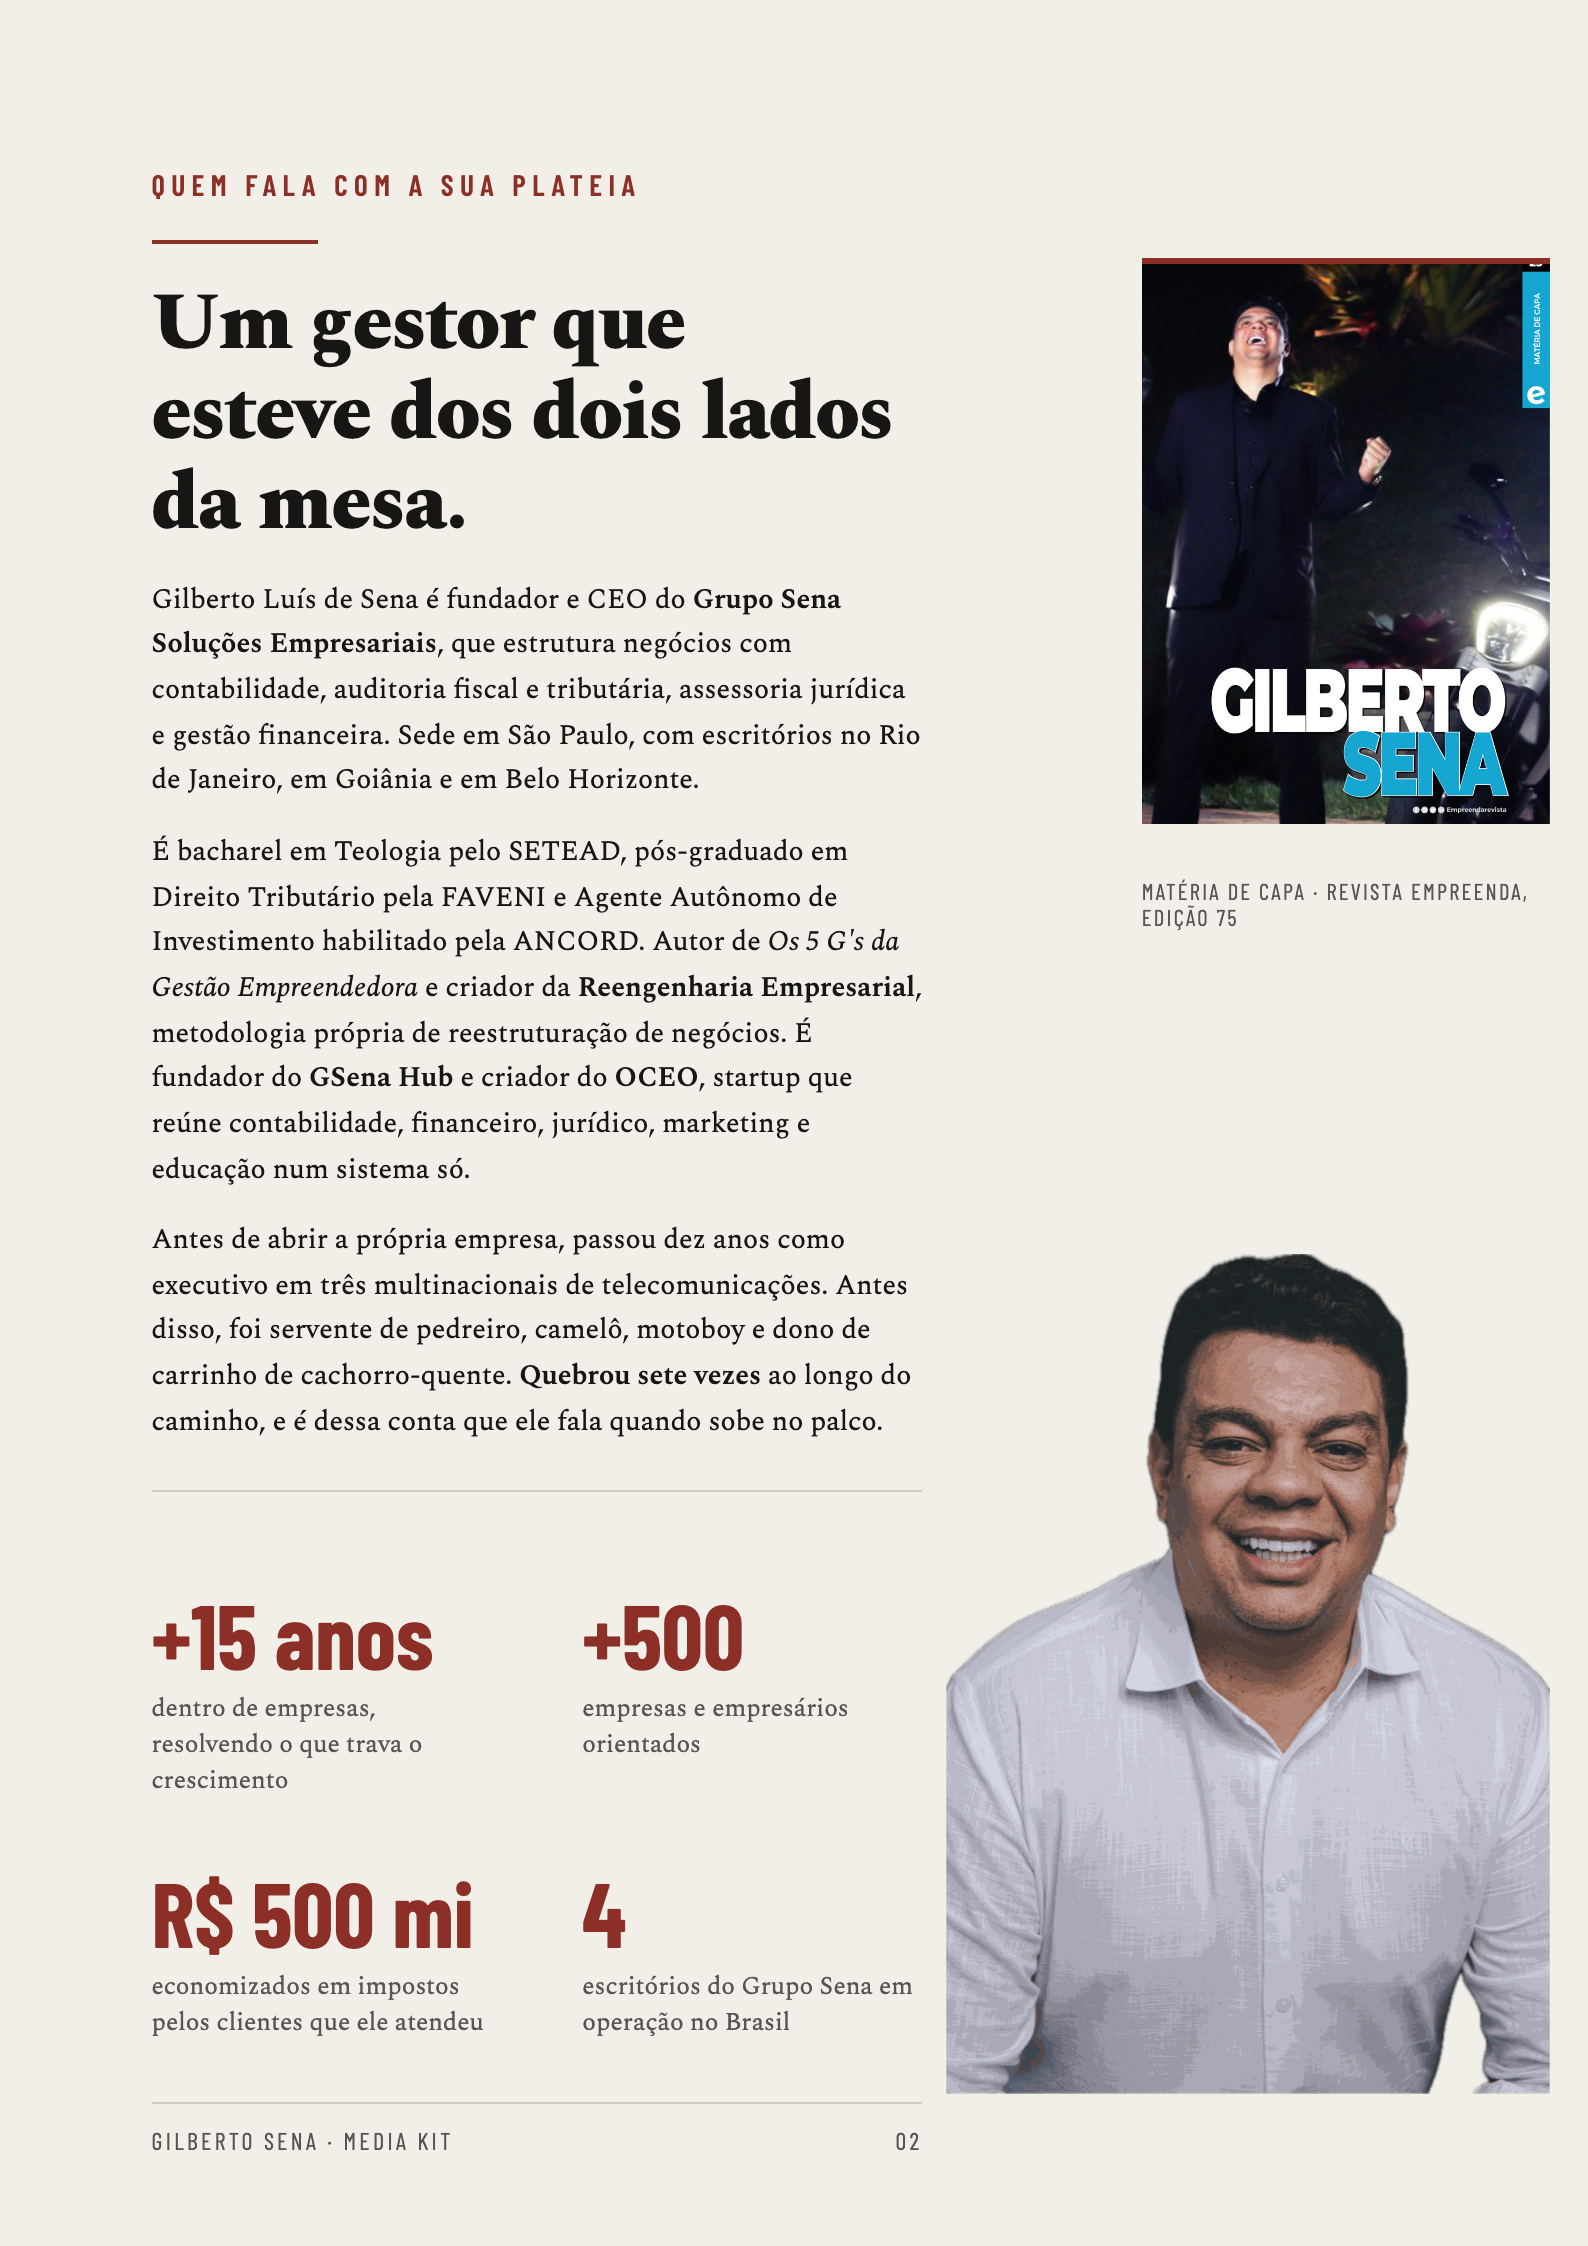
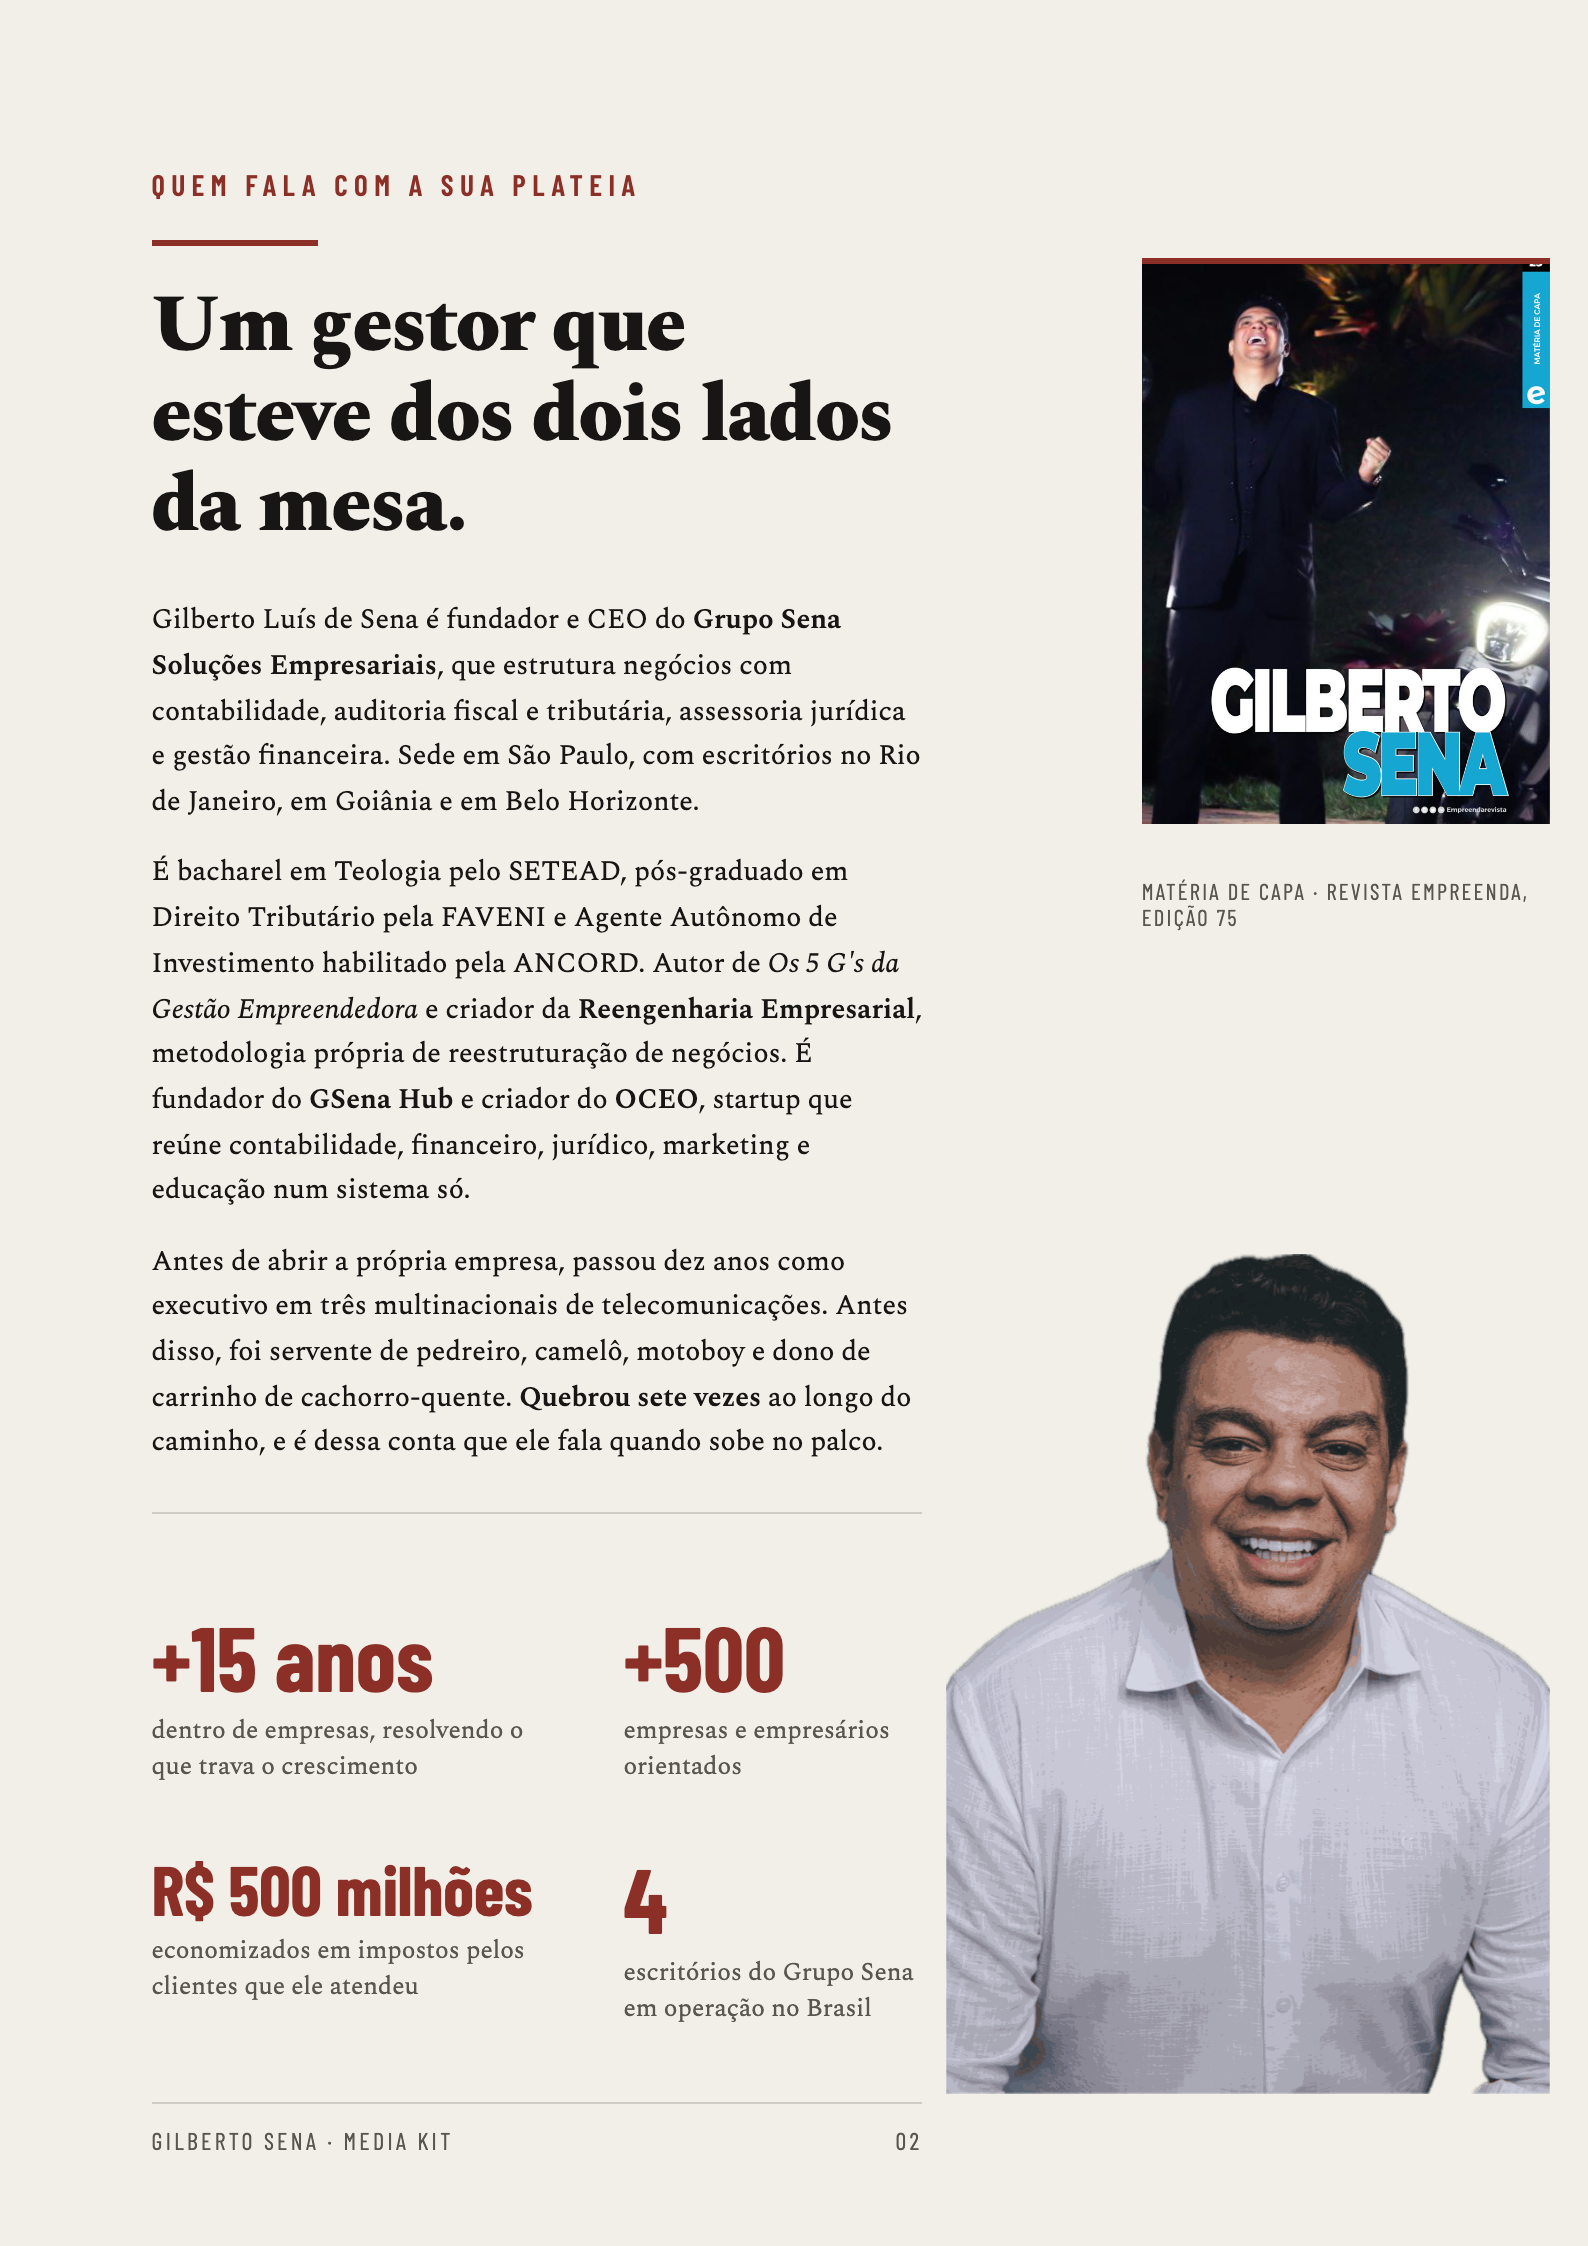
Milhoes por extenso no kit e no showreel; o numero certo no posicionamento

diff --git a/saidas/NEGOCIOS-E-MARCA/media-kit-palestrante-2026-10-14/media-kit.html b/saidas/NEGOCIOS-E-MARCA/media-kit-palestrante-2026-10-14/media-kit.html
@@ -264,7 +264,7 @@ em{font-style:italic}
   <div class="numeros">
     <div class="num"><div class="n">+15 anos</div><div class="t">dentro de empresas, resolvendo o que trava o crescimento</div></div>
     <div class="num"><div class="n">+500</div><div class="t">empresas e empresários orientados</div></div>
-    <div class="num"><div class="n">R$ 500 mi</div><div class="t">economizados em impostos pelos clientes que ele atendeu</div></div>
+    <div class="num"><div class="n" style="font-size:26pt;white-space:nowrap">R$ 500 milhões</div><div class="t">economizados em impostos pelos clientes que ele atendeu</div></div>
     <div class="num"><div class="n">4</div><div class="t">escritórios do Grupo Sena em operação no Brasil</div></div>
   </div>
 

diff --git a/saidas/REELS/showreel-palestrante-2026-10-15/_pecas.py b/saidas/REELS/showreel-palestrante-2026-10-15/_pecas.py
@@ -95,7 +95,7 @@ d.rectangle([(W/2-60, 680), (W/2+60, 684)], fill=ACENTO)
 num = f(DIN, 72); rot = f(DIN, 30)
 dados = [("+15 ANOS", "dentro de empresas"),
          ("+500", "empresas e empresários orientados"),
-         ("R$ 500 MI", "economizados em impostos")]
+         ("R$ 500 MILHÕES", "economizados em impostos")]
 y = 790
 for v, r_ in dados:
     lw = largura_espacada(d, v, num, 4)

diff --git a/_memoria/posicionamento.md b/_memoria/posicionamento.md
@@ -32,9 +32,15 @@ reforma tributária faz com a tua empresa?"*
 própria empresa — decisão de negócio, não dúvida de conformidade.
 
 **Prova/ativo mais forte (hoje enterrado na bio):** **+R$ 500 milhões
-economizados em impostos · +2.000 empresas recuperadas.** É a espinha do
-posicionamento, não um detalhe — nenhum concorrente de "mentor
+economizados em impostos · +500 empresas e empresários orientados.** É a
+espinha do posicionamento, não um detalhe: nenhum concorrente de "mentor
 empresarial" tem isso pra mostrar.
+
+⚠ **O número é 500, não 2.000.** Este arquivo dizia 2.000 até 16/out/2026.
+Ele confirmou **+500** duas vezes, em 15/out. Os estudos de agosto em
+`posicionamento-gilberto-sena/` ainda carregam o 2.000 e **não devem ser
+copiados sem corrigir**. ⚠ **Escrever "milhões" por extenso, nunca "mi"** —
+pedido dele em 16/out.
 
 ## Evento próprio — Summit do Gestor (decidido 20/08/2026)
 
